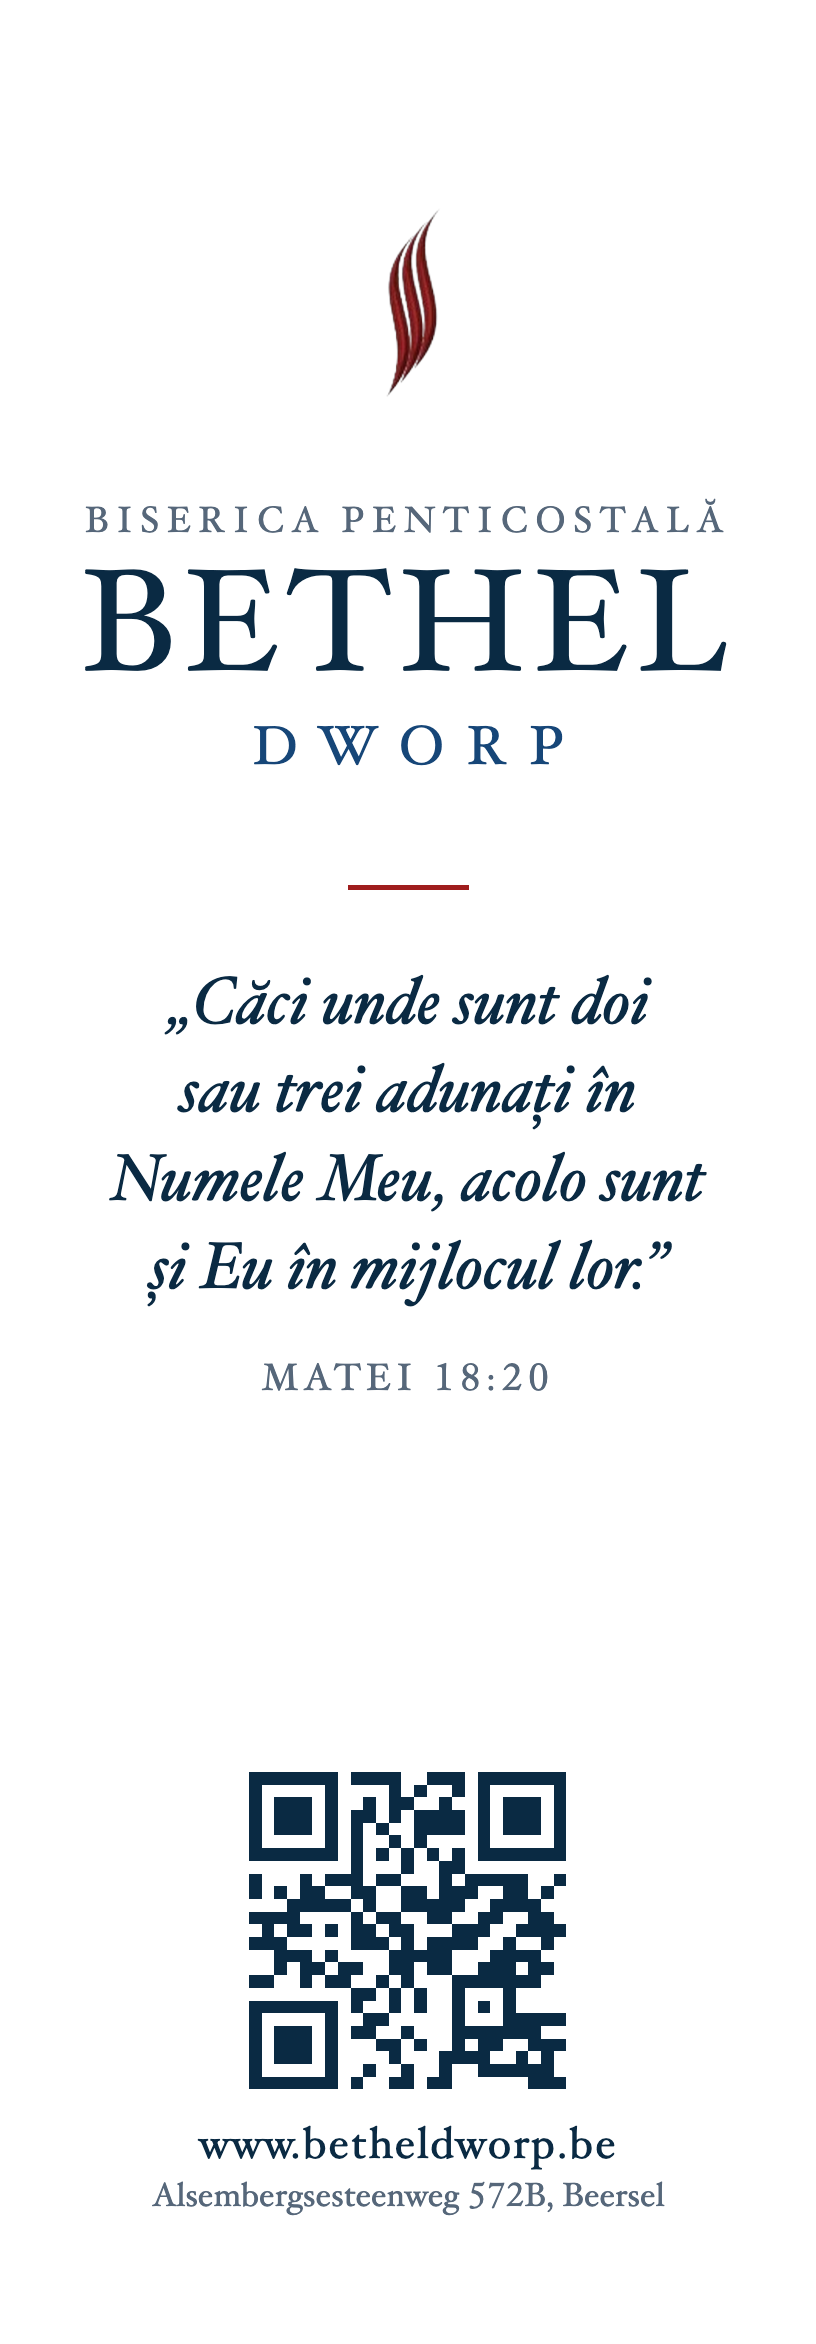
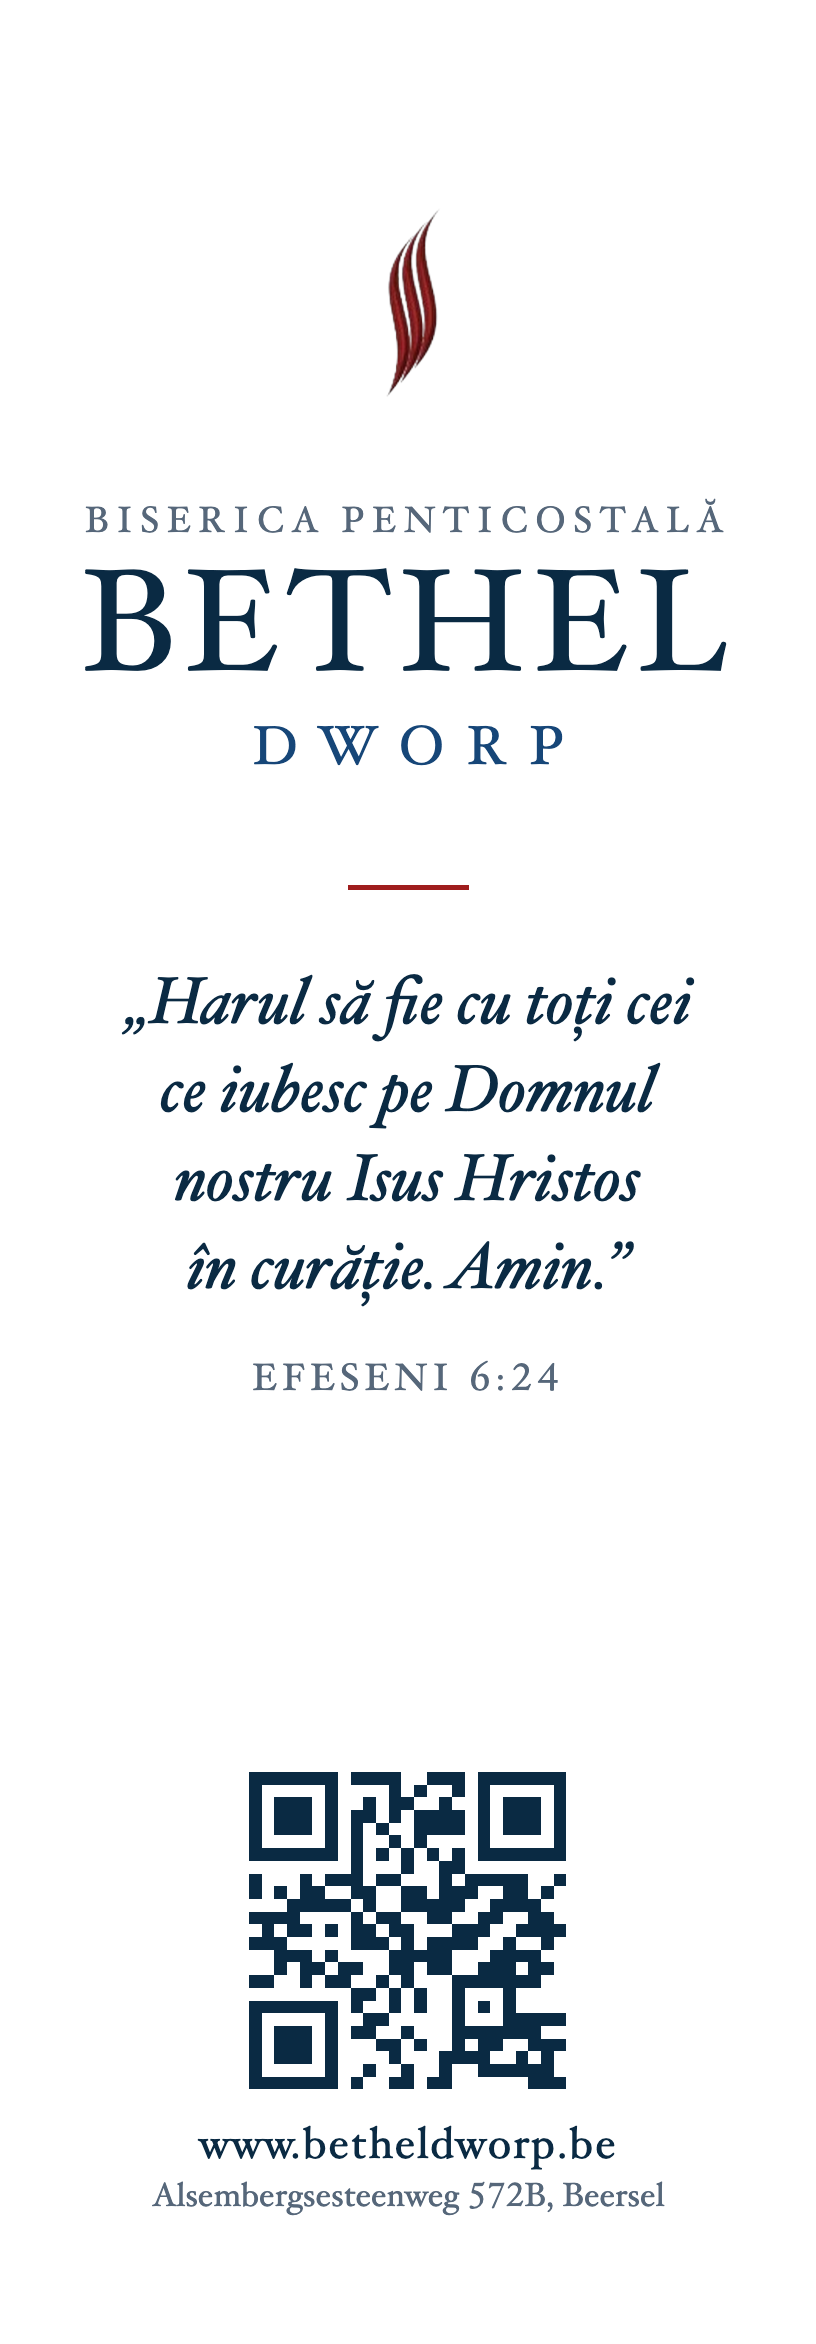
Met le verset Efeseni 6:24 au recto du marque page

Changed region(s): [[0.1225, 0.4049, 0.8578, 0.5917]]

diff --git a/design/LISEZ-MOI.md b/design/LISEZ-MOI.md
@@ -4,7 +4,7 @@
 
 Format Vistaprint : 51 x 152 mm, recto verso, en roumain, sur fond blanc.
 
-1. Recto : la flamme, le nom de l'église, le verset Matei 18:20, un grand QR code vers www.betheldworp.be, le site et l'adresse.
+1. Recto : la flamme, le nom de l'église, le verset Efeseni 6:24, un grand QR code vers www.betheldworp.be, le site et l'adresse.
 2. Verso : le titre « Programul săptămânal », le programme du lundi au dimanche avec l'heure de début et de fin, et un petit QR code vers la newsletter (`qr-newsletter.svg`, www.betheldworp.be/ro#newsletter).
 
 Les fichiers sont dans `design/marque-page` :
